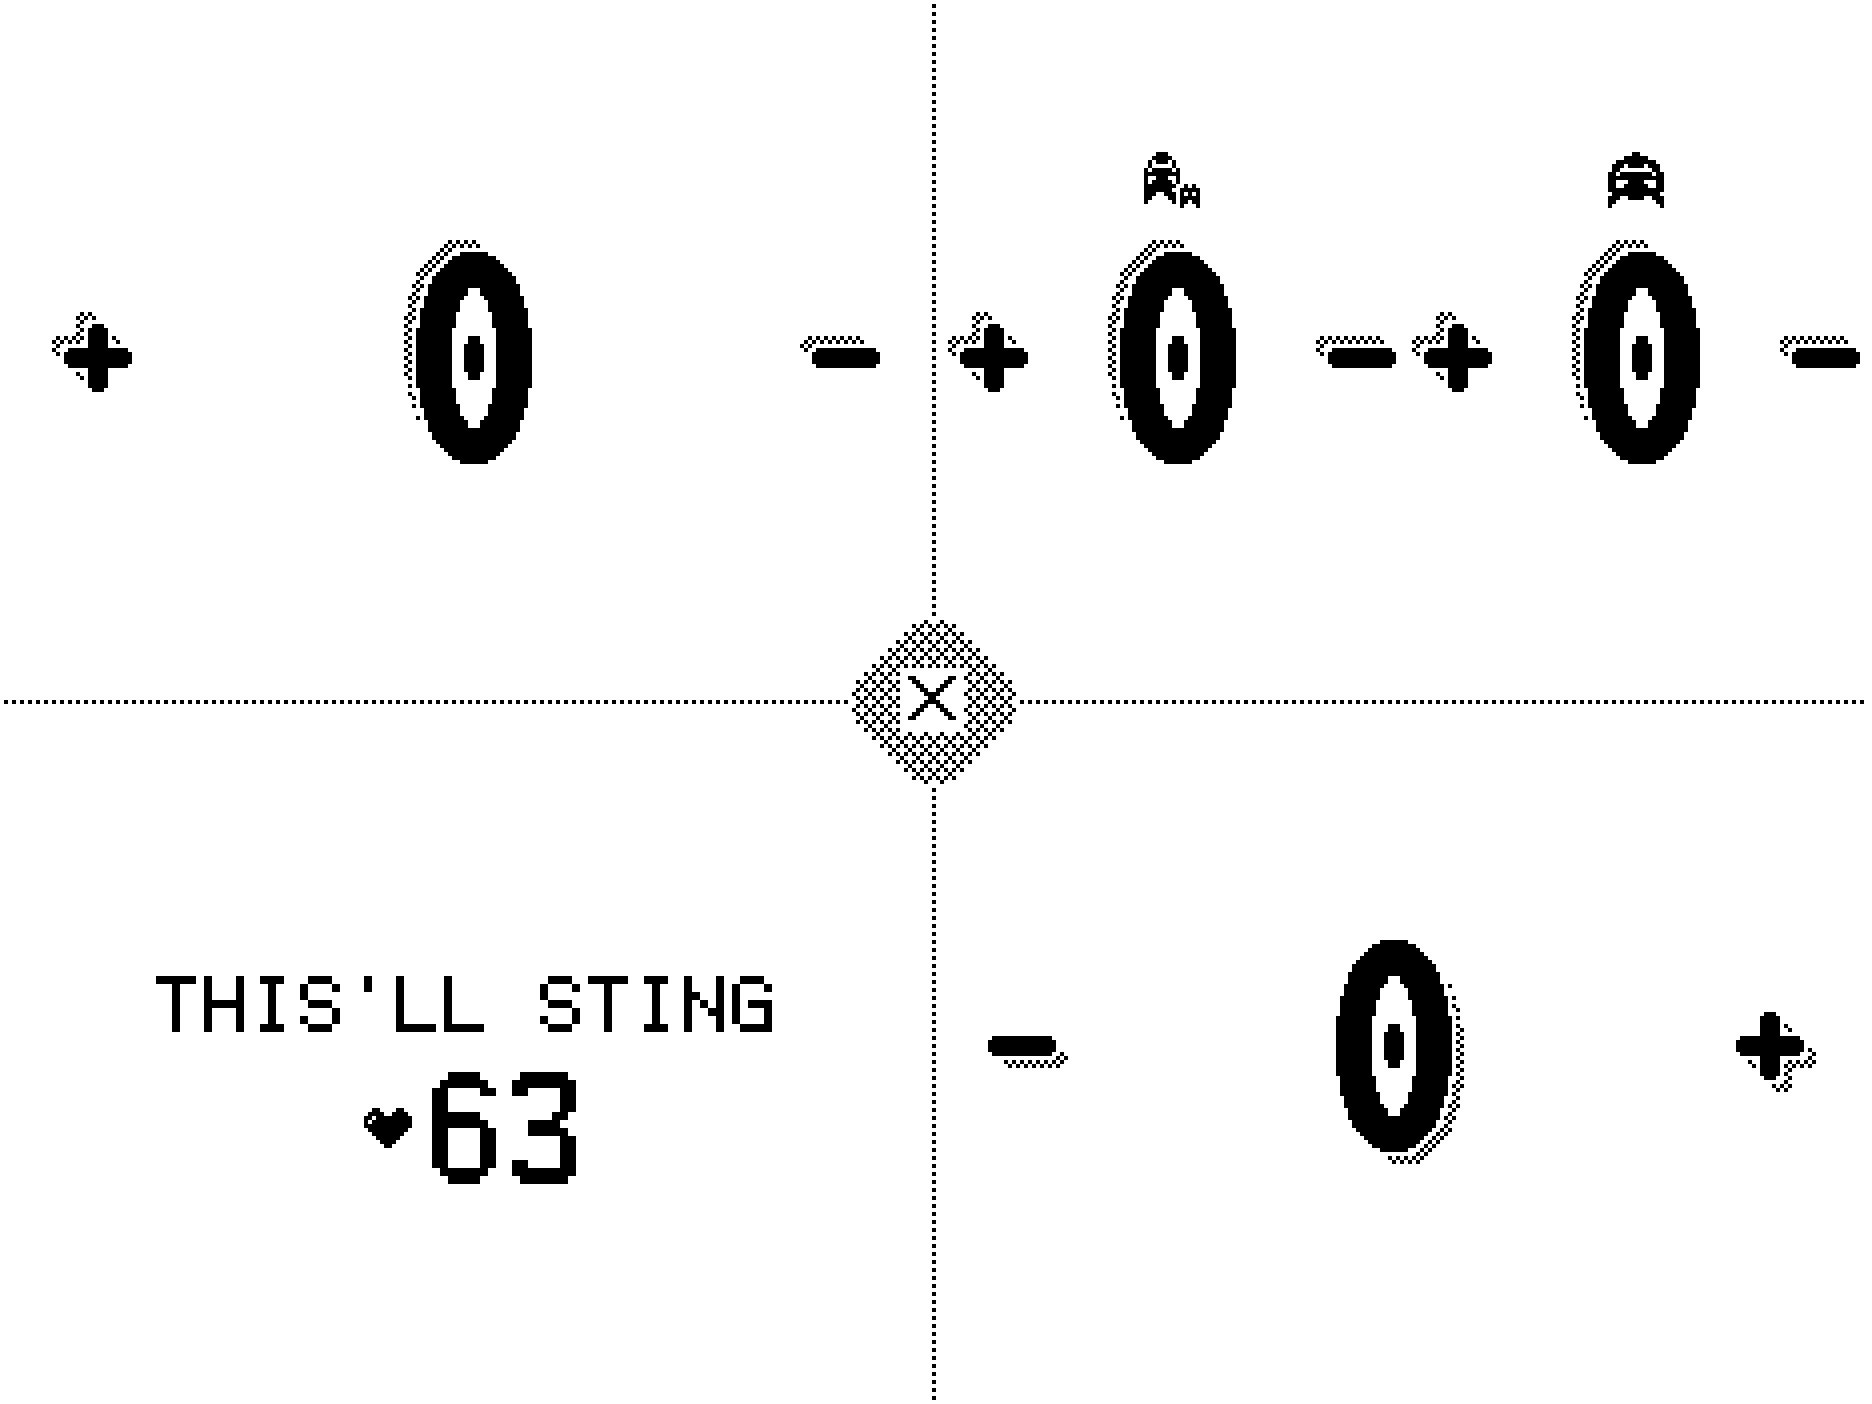
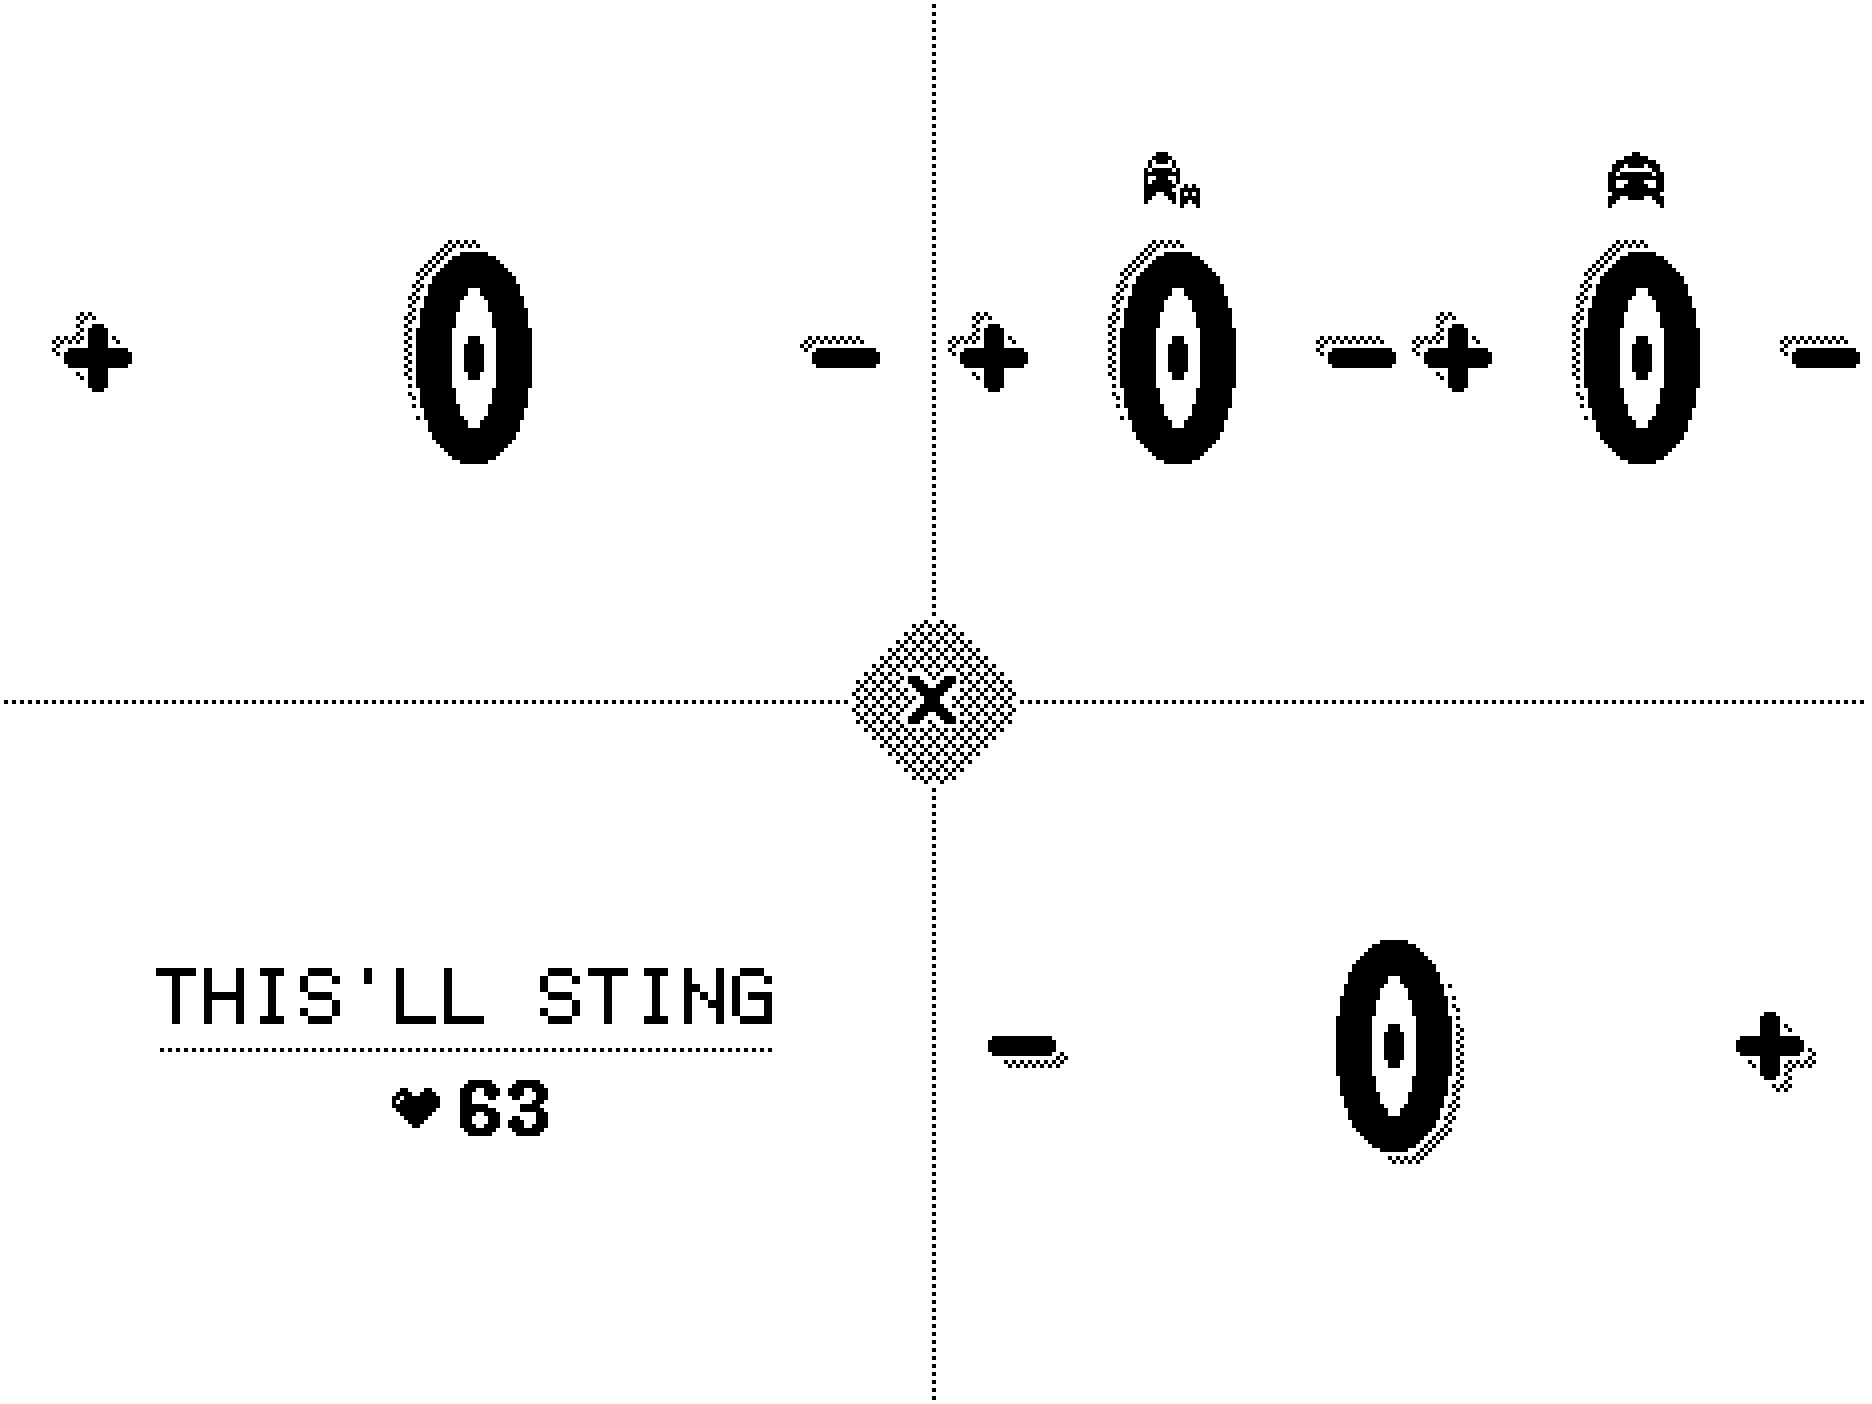
T50: regenerate design/captures/t34 from the T49 scenarios; README describes each capture
The 19 base captures were still the pre-T49 run (lethal 21, old numerals). New set from the
emulator at S = 4, byte-identical between 02f301c and the T50 build, all pass check_1bit.py; each
capture viewed and described as it now is (13: 20 from seat 1's primary, not lethal; 11 == 09 and
19 == 16 by design).

Changed region(s): [[0.1859, 0.6738, 0.4338, 0.8575], [0.062, 0.6738, 0.1859, 0.735], [0.4647, 0.49, 0.5267, 0.5207]]

diff --git a/design/captures/t34/README.md b/design/captures/t34/README.md
@@ -1,14 +1,36 @@
 # T34 regression captures
 
-`tools/capture_scenarios.sh` on the Nomad (S = 4, 1872×1404), built from `ed758fa` (the component
-refactor complete, before T37/T15 changed any pixels). All 19 are byte-identical to the same script
-run on the pre-refactor build (`fe98dc3`), and every one passes `tools/check_1bit.py --scale 4`.
+The 19 base states of `tools/capture_scenarios.sh` (what `BASE_ONLY=1` stops after), as re-scripted in T49, captured
+in T50 on the Nomad-shaped emulator (S = 4, landscape 1872×1404, 4 players; seat 1 has a partner,
+commander quips seeded with `--el seed 7`). Built from `02f301c` plus the T50 cleanups; all 19 are
+byte-identical to the same script run on `02f301c` itself, and every one passes
+`tools/check_1bit.py --scale 4`.
 
-01 fresh · 02/03 rotated seat 1 taps + hold, readout / committed · 04 upright seat 3 taps + hold,
-readout · 05/06 drawers open (upright 3, rotated 1) with counters bumped, poison 8 warning ·
-07 tax cell held (press inversion) · 08 seat 1 page 2 · 09/11 peeks · 10 seat 0 tab held ·
-12 commander mode (target 3) · 13 damage from seats 2 and 1 (lethal 21), readouts · 14 committed ·
-15 target tile held · 16 left by the target tile · 17 mode again · 18 close X held · 19 after the X.
+Seats run clockwise from the top-left: 0 TL, 1 TR (both turned 180°), 2 BR, 3 BL; everyone starts at 40.
 
-Later tasks that change pixels on purpose (T37 numerals, T15 KO, …) make new baselines with the
-same script; it is the regression harness, not a frozen golden set.
+| capture | what it shows |
+|---|---|
+| `01_fresh` | A fresh table: four 40s, the diamond, closed tabs. |
+| `02_seat1_readout` | Seat 1 (turned) after two `−` taps and a hold: 18, pending readout `−22`. |
+| `03_seat1_committed` | 4 s later: the readout committed and its effect finished; 18 alone. |
+| `04_seat3_readout` | Seat 3 (upright) after three `+` taps and a hold: 63, readout `+23`. |
+| `05_drawer3_open` | Seat 3's drawer open: tax 2, poison 2, energy 1 (the life total moves up to the compact slot). |
+| `06_drawers_open` | Seat 1's drawer open too (turned, partner tray): tax 2, poison 8 in the warning (inverted) style. |
+| `07_press_tax_cell` | Seat 3's tax cell `+` half held: the press inversion on that half. |
+| `08_drawer1_page2` | Seat 1's drawer on page 2 with its generic counter at 1; seat 3's tax now 4. |
+| `09_peeks` | Both drawers closed: the counters peek from the tile corners (seat 3: energy 1, tax 4, poison 2; seat 1: poison 8 inverted, tax 2, generic 1). |
+| `10_press_tab0` | Seat 0's tab held: the tab's dither inverted. |
+| `11_peeks_again` | Seat 0's drawer opened by that release and closed again: identical to `09`. |
+| `12_mode_enter` | Commander mode, seat 3 the target: its tile shows the quip (`THIS'LL STING`) and its life (63); the other seats show damage dealt to it (0; seat 1 in partner quarters), the diamond is the close X. |
+| `13_mode_damage` | Seat 2 dealt 3 (committed), then seat 1's primary 20 by a hold: readouts `+20` on seat 1 and `−20` on the target, target life 40 (not lethal). |
+| `14_mode_committed` | 4 s later: readouts committed (3 and 20 dealt, target 40). |
+| `15_press_target` | The target tile held: the whole tile inverted. |
+| `16_mode_left_by_target` | Released: back to play; seat 3 at 40 after 23 commander damage, peeks as before. |
+| `17_mode_again` | Commander mode again on seat 3: the next quip (`BRACE YOURSELF`), damage tallies kept. |
+| `18_press_close` | The centre X held (inverted). |
+| `19_after_close` | Released: back to play; identical to `16`. |
+
+Later tasks that change pixels on purpose make new baselines with the same script; it is the
+regression harness, not a frozen golden set. The full device set (`tools/check_purity.sh`, 98
+captures with the gem, dice, settings, history, KO, dark mode and every effect keyframe) is not
+kept here.
